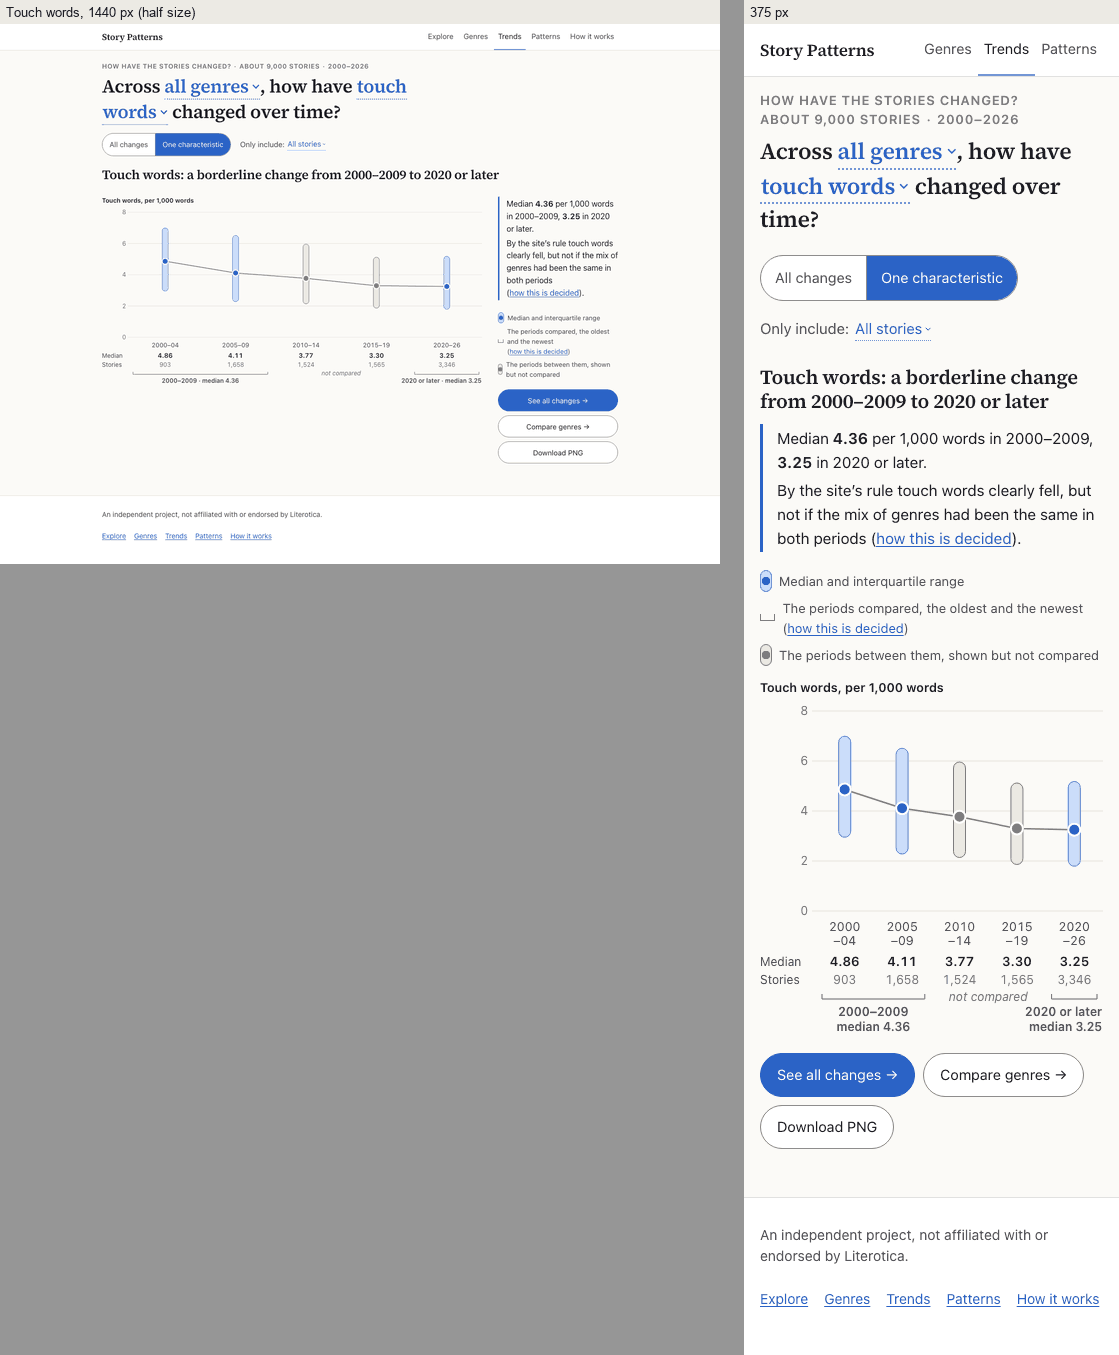
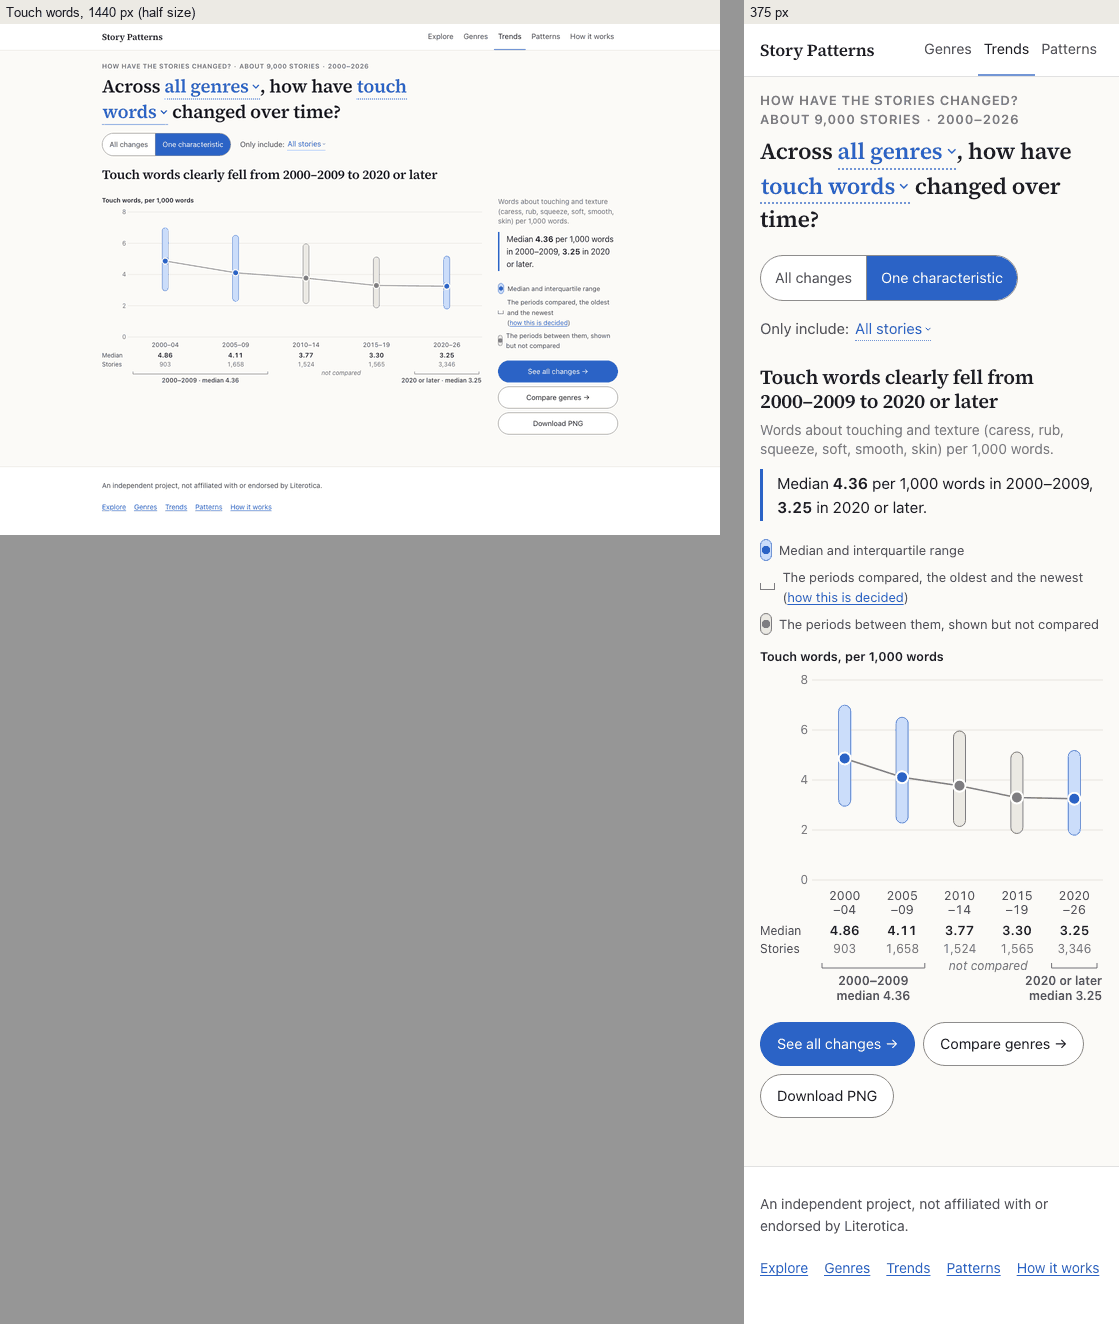
Stage 2 trends review: the owner's changes written up, and the after screenshots they changed
TRENDS_REVIEW.md section 10: the five items and what each changed (the 12
headings that now follow the rule alone, the row tags that went with the band
line), the nine definitions and the blurb wording before and after, the
measurements against fe5bcc8 (glyph boxes 0 / 0 on View 2 for all 31 genres
in both fonts; View 1 0 / 13 in Verdana, the same 13 as before at 320 px;
breaks 0 / 3 as before; axe 63 runs and label in name 12, none; a View 2
visit's layout shift 0.000; #/trends 175.8 KiB in 9 requests, was 213.7 in
12; first load 150.0 KiB), the judgment calls and what is still open (no
stand-in round on these changes). The summary and 9.6 point to it; the
proposal's section 13 says the borderline check and the band line are off
the page.

Redone after screenshots, on the final build: a01, a03 and a04 (View 2
without the two lines, the short note, "Blurb length"), a06 (touch words
with its definition), a11 (the picker's "Blurb length"), a12 (View 2's
shorter page) and a14 (View 2's PNG without tags). The other nine stay:
seven came out identical, and a02 and a13 differ only by a few pixels of
rendering noise.

site/README.md: the Trends page without the borderline and band lines, the
note, the budget (first load 150.0 KiB; a Trends visit 175.8 KiB in 9).

diff --git a/docs/stage2/TRENDS_REVIEW.md b/docs/stage2/TRENDS_REVIEW.md
@@ -9,6 +9,9 @@ changed; every `v/`, `genres/` and `trends/` file and `patterns.json` is byte-id
 
 ## Summary
 
+On October 12 you took the borderline check and the length-band line off the page, cut View 2's note to one sentence
+and allowed `meta.json` fixes: section 10. The rest of this summary is the review as built.
+
 The page now opens on **All changes** (View 2), the switch reads "All changes · One characteristic", and Copy link is
 gone from the site. Each comparison view (this one and the Genres page's "One genre") has one **Download PNG** for its
 lists.
@@ -17,15 +20,15 @@ lists.
 
 - The chart tells the same story as its verdict. Each bracket carries its window's number ("2000–2009 · median
   2,810"). The periods between the windows are gray and marked "not compared". A path line names a dip or rise in
-  between ("In between, it dipped to 5% in 2010–14."). "Borderline" replaces the fixed-mix line where the two checks
-  disagree.
+  between ("In between, it dipped to 5% in 2010–14."). ~~"Borderline" replaces the fixed-mix line where the two checks
+  disagree.~~ Taken off at your word: section 10.
 - On a desktop, the takeaway, key and actions sit in a rail beside the chart, and the brackets now fit on the first
   screen at 1280 × 720.
 
 **View 2** (all changes):
 
 - Its heading gives a denominator ("26 of 180 characteristics clearly changed…"). The takeaway starts with the length
-  line and ends with the length-band line.
+  line ~~and ends with the length-band line~~ (taken off: section 10).
 - Each row reads values first ("51.6 → 38.8 (−25%)"), with its dot on a scale zoomed to the view.
 
 **Site-wide:** "has/have" follows the noun, "across all genres" replaces "In All genres", the kicker never starts or
@@ -415,12 +418,113 @@ Tests: 508 (503 before), stable over three runs.
 
 ### 9.6 Still open
 
-- **Definitions for the 9** whose description only repeats the label: the five senses' words, physical sensation words,
-  semicolons, colons and commas. A sentence each in the pipeline's wording (`litcorr/stage2/wording.py`, then
-  `site-data`) would let View 1 show them; it changes `meta.json`, so it's your call.
-- **"description length"**: 3 of 6 desktop readers guess it's the blurb. Its definition ("Number of characters in the
-  author’s short description.") is one tap away; a clearer label would also be a `meta.json` change.
+- ~~**Definitions for the 9** whose description only repeats the label: the five senses' words, physical sensation
+  words, semicolons, colons and commas.~~ Done at your word: section 10.
+- ~~**"description length"**: 3 of 6 desktop readers guess it's the blurb.~~ Now "Blurb length": section 10.
 - **"interquartile range"** (O1) and **the reason for comparing only the two ends**, which now waits behind "how this is
   decided": both are noticed by most readers.
 - Section 8's other items stand: Safari and screen readers, the build-up percents, the Verdana-only leftovers, the
   hatching, and the switch.
+
+## 10. Your changes (October 12)
+
+You asked for five changes: take two lines out of View 2's takeaway, cut its note to one sentence, never say
+"borderline" or "just past", and you allowed `meta.json` changes to fix things. Built in `e0fc425` (the page) and
+`ed503a5` (`meta.json`); this write-up and the seven redone after screenshots (a01, a03, a04, a06, a11, a12, a14) are
+the commit after them. Not pushed.
+
+### 10.1 What changed
+
+| Your item | What changed | Where |
+|---|---|---|
+| 1. "X of these changes are borderline: …" | Gone, with its topics-only form ("4 characteristics, in the topics below, are borderline: …", with 5,000 words or more) | View 2's takeaway |
+| 2. "X of these changes are not clear within any length band (…)" | Gone. So are the rows' "· not clear within any length band" tags, the same claim row by row, and the three Length options' files the page fetched for them | View 2's takeaway and rows |
+| 3. The note | Your sentence, "Each dot compares a story from 2020 or later with a story from 2000–2009 (50 is a tie)", in an open topic too: no link and, as you wrote it, no final period | View 2 |
+| 4. No "borderline", no "just past" | View 1's heading follows the site's rule alone. The 12 characteristics where the two checks disagree (2 with all stories; 1, 5 and 4 with the Length options) read "clearly fell", "clearly rose" or "No clear change" by that rule: "Touch words clearly fell from 2000–2009 to 2020 or later" (was "Touch words: a borderline change …"). View 1's borderline line, the live region's copy of it, the rows' "· borderline" tags (on the page, in the rows' names and in the PNG) and How it works' fixed-mix and length-band paragraphs are gone. "Just past" was never on the site; a test now keeps both out of the site's source and `meta.json` | Both views, How it works |
+| 5. `meta.json` | Definitions for the nine that only repeated their label, and "blurb" for the story's description (10.2) | `litcorr/stage2/wording.py`, then `site-data` |
+
+### 10.2 The `meta.json` changes
+
+The definitions follow the word lists' own descriptions and examples (`lexicons/sensory_*.txt`, the same in the
+handoff) or what `litcorr/text/features.py` counts, in the style of the site's other word-list definitions:
+
+| Characteristic | Was | Now |
+|---|---|---|
+| Touch words | Touch words per 1,000 words. | Words about touching and texture (caress, rub, squeeze, soft, smooth, skin) per 1,000 words. |
+| Sight words | Sight words per 1,000 words. | Words about seeing, light and color (look, gaze, eyes, bright, shadow, red, golden) per 1,000 words. |
+| Sound words | Sound words per 1,000 words. | Words about hearing, voices and noises (whisper, loud, silence, scream, music) per 1,000 words. |
+| Smell words | Smell words per 1,000 words. | Words about smells and scents (scent, perfume, musk, sniff, aroma) per 1,000 words. |
+| Taste words | Taste words per 1,000 words. | Words about taste, flavor, eating and drinking (taste, flavor, salty, savor, swallow) per 1,000 words. |
+| Physical sensation words | Physical sensation words per 1,000 words. | Words for bodily feelings (warmth, cold, tingling, throbbing, aching, trembling, breathing, sweat, wetness) per 1,000 words. |
+| Semicolons | Semicolons per 1,000 words. | Semicolons (‘;’) in the story’s text, per 1,000 words. |
+| Colons | Colons per 1,000 words. | Colons (‘:’) in the story’s text, per 1,000 words, leaving out the colon of a web address. |
+| Commas | Commas per 1,000 words. | Commas (‘,’) in the story’s text, per 1,000 words. |
+
+View 1 now shows a definition for every characteristic; the guard that leaves out a bare repeat of the label stays.
+
+The story's description is its **blurb** on the site:
+
+| Was | Now |
+|---|---|
+| Description length | Blurb length: "Number of characters in the blurb: the short description the author writes for the story, shown with its title in story lists." |
+| Description word count | Blurb word count |
+| Explicit description (and its groups) | Explicit blurb (Explicit blurb, Non-explicit blurb) |
+| Person of the description | Person of the blurb |
+| Title & description (the picker's sub-heading) | Title & blurb |
+
+With them go the nouns, the chart titles' subjects ("Stories with longer blurbs"), the two caveats ("Not measured when
+there is no blurb.", "About two blurbs in three use no personal pronoun") and How it works' privacy line ("No story text,
+titles, blurbs, …"). "description" and "summary" are search synonyms, so the search finds the four by "description",
+"blurb" or "summary", and its results for 11 other queries are unchanged. Of the 1,818 aggregate files only `meta.json`
+changed: +561 bytes, +305 gzipped.
+
+### 10.3 Measurements, the final build (`ed503a5`) against `fe5bcc8`
+
+| Measure | `fe5bcc8` | Final |
+|---|---|---|
+| Glyph boxes, View 2 (31 genres × 4 options × 320–1440 px, lists in full, every topic open): site font / Verdana | 0 / 0 | **0 / 0** (620 pages, 49,650 rows a font) |
+| Glyph boxes, View 1: site font / Verdana | 0 / 3 with two genres (9.3); in Verdana at 320 px with six genres, 13 | 0 / 13 with six genres (21,510 charts), the same 13, all at 320 px |
+| Breaks (980 states a font) | 0 / 3 | 0 / 3, the same (1,400 visible "·": 83 fewer, the tags' separators) |
+| axe; label in name | 63 runs, none; 12, none | the same |
+| Layout shift, a View 2 visit (slow 4G), 375 / 1440 px | 0.000 / 0.000 | 0.000 / 0.000, with nothing arriving late now; worst 0.021, as before (View 1, another genre) |
+| First load | 149.7 KiB, 6 | 150.0 KiB, 6 (`meta.json`) |
+| A visit to `#/trends`; to View 1; to "One genre"; to How it works | 213.7 in 12; 176.7; 208.8; 141.2 KiB | **175.8 in 9**; 175.8; 208.9; 141.3 KiB |
+| Chunks (bytes, `gzip -9`): Trends JS, CSS; How it works; `IncludeSelect`; `chartImage`; the main script | 15,561, 4,045; 8,344; 13,142; 7,539; 86,748 | 14,696, 3,927; 8,091; 12,939; 7,532; 86,748 |
+| Page height, 375 / 1440 px: `#/trends`; View 1, word count | 2,754 / 2,162; 1,339 / 1,036 | 2,515 / 2,015; the same |
+| PNGs | | View 2's, All genres: no tags, "Blurb length"; View 2's for Romance and "One genre"'s for Romance: pixel-identical; "One genre"'s for How To: only "Person of the blurb" |
+| "One genre"'s fingerprints; Explore's layout guard | | Only the four labels (40 lines in 8 files); only "Explicit blurb"'s groups (with the old `meta.json`, the old digest) |
+
+Tests: 509 (508 before) and 218 Python tests pass. One full run had a How it works sidebar test fail on timing (its
+code is untouched); it passed alone and in four full runs since.
+
+### 10.4 Judgment calls
+
+1. **The rows' tags went with the lines.** "· not clear within any length band" was the band line's claim row by row.
+   Without the line naming the bands, "length band" would be unexplained again (round 1: 6 of 6), and the tags needed
+   the Length options' files.
+2. **"Blurb", the readers' word.** "Description length" sat beside "Descriptive words" and three "descriptive & sensory
+   language" rows; 3 of 6 stand-ins asked "of what?", and they all guessed "the blurb". Literotica calls it the
+   description, so the definition says so and the search finds it by that word. To keep "description", undo the four
+   entries in `SITE_LABEL` and the one in `SUBGROUP_LABEL`, with the nouns, subjects and caveats beside them in
+   `wording.py`.
+3. **The word lists' examples, without their notes.** Most of the site's word-list definitions leave their lists'
+   notes out, so these do too (here: moans and gasps count as arousal words; "sweet" isn't a taste word).
+4. **The punctuation definitions say what is counted**: the story's text, as `features.py` counts it (author's notes
+   and scene breaks aside), and for colons not a web address's.
+5. **The topics' line still explains the gray dots** ("blue dots changed, gray dots show no clear change"), now that the
+   note doesn't. View 2 no longer links to "how this is decided" or says that a row opens its chart; each row keeps its
+   "›", and View 1's key keeps the link.
+6. **The shared rows' tag code is removed**, not left unused, so the rows are again as before the review and "One genre"
+   draws the same.
+7. **The files keep the fixed-mix fields** (`rm`, `fm` in the four All genres files), unused now. Dropping them from
+   `site-data` would save about 0.6 KB gzipped a file (12,973 to 12,363 bytes for the default view's), but it's a change
+   to the pipeline, so I left it.
+
+### 10.5 Still open
+
+- **No fresh eyes on these changes.** "Blurb" and the nine definitions haven't been tested on stand-ins; a round would
+  check them, and whether the shorter note still makes the dots clear.
+- From 9.6: "interquartile range" (O1), and the reason for comparing only the two ends, now only in How it works (View
+  1's key links to it).
+- Section 8's other items stand: Safari and screen readers, the build-up percents, the Verdana-only leftovers (13 View
+  1 charts at 320 px with six genres), the hatching, and the switch.

diff --git a/site/README.md b/site/README.md
@@ -35,20 +35,12 @@ rank-biserial correlation of at least 0.2 against all genres (for named groups, 
 The **Trends** page shows how the stories themselves changed over time. It opens on **All changes**: "What has
 changed in stories across [all genres]?" ("… in [Romance]?") says how many of the characteristics compared clearly
 changed from 2000–2009 to 2020 or later ("26 of 180 characteristics clearly changed …") and how many stories each
-window has. A takeaway follows:
-
-- how word count changed, and the ▼ Fell / ▲ Rose / ≠ lines;
-- for All genres, what "borderline" means: clear by the site's rule, but not if the mix of genres had been the same in
-  both periods;
-- last, for All genres with All stories, how many of the changes are not clear within any length band, the bands
-  named. This comes from the Length options' files, read after the first paint, and the line's place is held until
-  then.
-
-Then the lists, the largest change first, in "One genre"'s rows. Each reads the two windows' values first ("51.6 →
-38.8 (−25%)", under "Median story or share"), then a dot on a scale zoomed to the view (how often a story from 2020 or
-later comes out higher than a story from 2000–2009, out of 100), with "· borderline" or "· not clear within any length
-band" where they apply. "Download PNG" saves the lists, every characteristic by topic follows, and a row opens its chart over
-time. A genre whose windows have too few stories says so, with its stories per period. The switch "All changes · One
+window has. A takeaway follows: how word count changed, and the ▼ Fell / ▲ Rose / ≠ lines. Then one sentence, "Each
+dot compares a story from 2020 or later with a story from 2000–2009 (50 is a tie)", and the lists, the largest change
+first, in "One genre"'s rows. Each reads the two windows' values first ("51.6 → 38.8 (−25%)", under "Median story or
+share"), then a dot on a scale zoomed to the view (how often a story from 2020 or later comes out higher than a story
+from 2000–2009, out of 100). "Download PNG" saves the lists, every characteristic by topic follows, and a row opens its
+chart over time. A genre whose windows have too few stories says so, with its stories per period. The switch "All changes · One
 characteristic" leads to one characteristic over five periods of publication (2000–04 to 2020 and later): "Across
 [all genres], how has [story length in words] changed over time?" ("how have" for a plural noun; "In [Romance], …").
 It is drawn in one of four forms on one time axis:
@@ -61,9 +53,8 @@ It is drawn in one of four forms on one time axis:
 Under the plot, aligned with the columns: the periods, their medians or shares, their stories, and brackets under the
 two windows compared, each with its window's number ("2000–2009 · median 2,810"); the periods between them are gray and
 "not compared", as the key says. The heading says whether the characteristic clearly rose, fell, moved later or
-earlier, or changed between the windows, by the Genres page's rule. For All genres it says "a borderline change" when
-the check with the mix of genres held the same in both periods gives the other answer. Under the heading the page says
-what the characteristic measures, from `meta.json`'s description. A line names a clear dip or rise in between. On a desktop the takeaway,
+earlier, or changed between the windows, by the Genres page's rule. Under the heading the page says what the
+characteristic measures, from `meta.json`'s description. A line names a clear dip or rise in between. On a desktop the takeaway,
 the key and the actions ("See all changes →", "Compare genres →", "Download PNG") sit in a rail beside the chart. Its
 picker lists the characteristics that clearly changed first, and "Only include" leaves out the options that don't
 apply (the Length options with word count). Publication year, month and weekday, story age, the number of tags and the
@@ -112,7 +103,7 @@ on the Genres page fetches it, and the page's code, while the app starts, before
 characteristic on the Trends page, each period's number of stories and quartiles or shares (none under 10 stories),
 the 2000–2009 window's, and the comparison of 2020 or later with 2000–2009: the rank-biserial correlation (for named
 groups the total variation distance) with whether it clearly changed, and for All genres the same with every genre's
-share of stories held fixed. `meta.json`'s `trend` gives the periods, the two windows, the rule, the options, the
+share of stories held fixed (no longer shown). `meta.json`'s `trend` gives the periods, the two windows, the rule, the options, the
 characteristics left out and `too_few` (per option, the genres whose two windows can't be compared); a characteristic
 whose noun is plural has `"plural": true`. `loadTrends(include, genre)` and `prefetchTrends` in `src/lib/data.js` read
 them.
@@ -124,11 +115,11 @@ Trends page one of at most 13 KB.
 ## First-load budget and lazy parts
 
 The **first load** is the HTML, the main script, the CSS, the heading font, `meta.json` and the first chart file:
-**149.7 KiB of gzip response bodies in 6 requests** (October 12, 2026, after the Trends review; 149.5 before it,
-148.5 before the Trends page). The Genres and Trends pages' own code, styles and files load only when they are opened.
-A visit that starts on the Genres page is 208.8 KiB in 9 requests (204.4 in 8 before the Trends page: the code the two
-pages share is now a chunk of its own). One that starts on the Trends page is 213.7 KiB in 12: all changes, with the
-three Length options' files for its band line fetched after the first paint (176.7 in 9 for one characteristic).
+**150.0 KiB of gzip response bodies in 6 requests** (October 12, 2026, after the owner's changes to the Trends
+review; 149.7 before them, 149.5 before the review, 148.5 before the Trends page). The Genres and Trends pages' own
+code, styles and files load only when they are opened. A visit that starts on the Genres page is 208.9 KiB in 9
+requests (204.4 in 8 before the Trends page: the code the two pages share is now a chunk of its own). One that starts
+on the Trends page is 175.8 KiB in 9, on either view.
 Layout shift stays under 0.03. The budget is **155 KiB of
 gzip response bodies** for that set, measured on the built site served with gzip (the design review's `firstload.mjs`
 with `serve.mjs`; response headers are not counted).
@@ -248,7 +239,7 @@ src/
                           until the next one has loaded; the live region; the tab's title; focus to the answer's
                           heading after a button that changes it
     TrendAnswer.jsx       (lazy) one characteristic over time: the heading, what the characteristic measures, the
-                          takeaway (the windows' numbers, the path line, the borderline line), the key (the periods
+                          takeaway (the windows' numbers, the path line), the key (the periods
                           compared and the gray ones between), the chart for its form and the actions ("See all
                           changes →", "Compare genres →", "Download PNG"), in a rail beside the chart from a 960 px
                           answer; the too-few state
@@ -258,10 +249,8 @@ src/
                           chart on phones; the glide to another genre or option
     TrendMix.jsx          (lazy) 100% columns for named groups and ordered bands
     TrendChanges.jsx      (lazy) all changes from 2000–2009 to 2020 or later, the page's default: the heading with its
-                          denominator, the sample line, the takeaway (the length line, ▼ ▲ ≠, what "borderline" means,
-                          the length-band line from the Length options' files, its place held until they arrive) and
-                          the too-few state (stories per period), with "What changed"'s words, values and tags for
-                          ComparisonProfile
+                          denominator, the sample line, the takeaway (the length line, ▼ ▲ ≠) and the too-few state
+                          (stories per period), with "What changed"'s words and values for ComparisonProfile
     ChartNotes.jsx        the totals box (story age) with its switch, and the three explanations (disclosures at every
                           width)
     DownloadPng.jsx       "Download PNG": the button, its lazy code and its failure message (Explore, both views of the
@@ -332,10 +321,10 @@ License 1.1 (`public/fonts/OFL.txt`, taken from `@fontsource/source-serif-4` 5.3
   by the size of their difference within that genre, never genres; so does "What changed" by the size of their change.
   The Trends page's genre slot lists All genres, then every genre A–Z.
 - On the Trends page a characteristic "clearly" changed only by the rule in `meta.trend` (the Genres page's, applied to
-  stories from 2020 or later against stories from 2000–2009, with at least 30 stories on each side); for All genres a
-  line says when holding each genre's share of stories fixed gives another answer. Its words say what changed (rose,
-  fell, moved later), never why, and no year is written in its code. The Patterns page is grouped by topic and
-  alphabetical, never sorted by strength, and always gives the count of characteristics without a clear pattern.
+  stories from 2020 or later against stories from 2000–2009, with at least 30 stories on each side). Its words say what
+  changed (rose, fell, moved later), never why, and no year is written in its code. The Patterns page is grouped by
+  topic and alphabetical, never sorted by strength, and always gives the count of characteristics without a clear
+  pattern.
 - Motion is switched off under "reduce motion": another genre glides the marks and the axis together (one scale
   in every frame; the printed values fade in at the end; on the Trends page another option too), another measure or
   characteristic cross-fades, the Genres page's rows glide to a new order, and scrolling is smooth.

diff --git a/docs/stage2/TRENDS_PAGE_PROPOSAL.md b/docs/stage2/TRENDS_PAGE_PROPOSAL.md
@@ -808,7 +808,9 @@ change never prints 40 or 60. In bold, the two changes that are not clear with t
 ## 13. As built
 
 *Since then:* the page's design review is built; what changed (it opens on all changes, View 1's brackets and rail,
-View 2's values first, Download PNG for the lists, no Copy link) is in [TRENDS_REVIEW.md](TRENDS_REVIEW.md).
+View 2's values first, Download PNG for the lists, no Copy link) is in [TRENDS_REVIEW.md](TRENDS_REVIEW.md). On
+October 12 the owner took the fixed-mix check ("borderline") and the length-band line off the page, so neither is
+shown any more: section 10 there.
 
 Built on branch `trends-page`, made from `one-genre` at `1756a39` (the proposal is its first commit, `62d8cee`),
 following `STAGE2_TRENDS_PAGE_PROMPT.md`: thirteen commits, the last one this write-up with the prompt, not pushed. At
